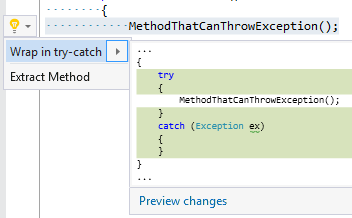
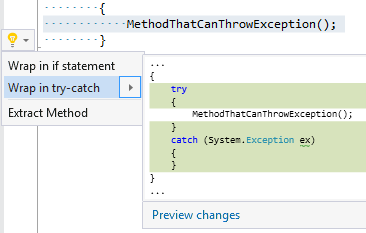
add refactoring "WrapStatementsInIfStatement"

Changed region(s): [[0.0, 0.0, 1.0, 1.0]]

diff --git a/source/Pihrtsoft.CodeAnalysis.CSharp.Refactorings/Refactoring/WrapStatementsInTryCatchRefactoring.cs b/source/Pihrtsoft.CodeAnalysis.CSharp.Refactorings/Refactoring/WrapStatementsInTryCatchRefactoring.cs
@@ -1,47 +1,17 @@
 // Copyright (c) Josef Pihrt. All rights reserved. Licensed under the Apache License, Version 2.0. See License.txt in the project root for license information.
 
-using System.Collections.Generic;
-using System.Linq;
-using System.Threading;
-using System.Threading.Tasks;
-using Microsoft.CodeAnalysis;
+using System.Collections.Immutable;
 using Microsoft.CodeAnalysis.CSharp.Syntax;
-using Microsoft.CodeAnalysis.Text;
 using static Microsoft.CodeAnalysis.CSharp.SyntaxFactory;
 using static Pihrtsoft.CodeAnalysis.CSharp.CSharpFactory;
 
 namespace Pihrtsoft.CodeAnalysis.CSharp.Refactoring
 {
-    internal static class WrapStatementsInTryCatchRefactoring
+    internal class WrapStatementsInTryCatchRefactoring : WrapStatementsRefactoring<TryStatementSyntax>
     {
-        public static bool CanRefactor(RefactoringContext context, BlockSyntax block)
+        public override TryStatementSyntax CreateStatement(ImmutableArray<StatementSyntax> statements)
         {
-            return GetSelectedStatements(block, context.Span).Any();
-        }
-
-        public static async Task<Document> RefactorAsync(
-            Document document,
-            BlockSyntax block,
-            TextSpan span,
-            CancellationToken cancellationToken = default(CancellationToken))
-        {
-            SyntaxNode root = await document.GetSyntaxRootAsync(cancellationToken);
-
-            StatementSyntax[] statements = GetSelectedStatements(block, span).ToArray();
-
-            int index = block.Statements.IndexOf(statements[0]);
-
-            SyntaxList<StatementSyntax> newStatements = block.Statements;
-
-            int cnt = statements.Length;
-
-            while (cnt > 0)
-            {
-                newStatements = newStatements.RemoveAt(index);
-                cnt--;
-            }
-
-            TryStatementSyntax tryStatement = TryStatement(
+            return TryStatement(
                 Block(statements),
                 CatchClause(
                     CatchDeclaration(
@@ -49,21 +19,6 @@ namespace Pihrtsoft.CodeAnalysis.CSharp.Refactoring
                         Identifier("ex")),
                     null,
                     Block()));
-
-            tryStatement = tryStatement.WithFormatterAnnotation();
-
-            newStatements = newStatements.Insert(index, tryStatement);
-
-            root = root.ReplaceNode(block, block.WithStatements(newStatements));
-
-            return document.WithSyntaxRoot(root);
-        }
-
-        private static IEnumerable<StatementSyntax> GetSelectedStatements(BlockSyntax block, TextSpan span)
-        {
-            return block.Statements
-                .SkipWhile(f => span.Start > f.Span.Start)
-                .TakeWhile(f => span.End >= f.Span.End);
         }
     }
 }

diff --git a/source/Pihrtsoft.CodeAnalysis.CSharp.Refactorings/Refactoring/WrapStatementsRefactoring.cs b/source/Pihrtsoft.CodeAnalysis.CSharp.Refactorings/Refactoring/WrapStatementsRefactoring.cs
@@ -1,0 +1,63 @@
+// Copyright (c) Josef Pihrt. All rights reserved. Licensed under the Apache License, Version 2.0. See License.txt in the project root for license information.
+
+using System.Collections.Generic;
+using System.Collections.Immutable;
+using System.Linq;
+using System.Threading;
+using System.Threading.Tasks;
+using Microsoft.CodeAnalysis;
+using Microsoft.CodeAnalysis.CSharp.Syntax;
+using Microsoft.CodeAnalysis.Text;
+
+namespace Pihrtsoft.CodeAnalysis.CSharp.Refactoring
+{
+    internal abstract class WrapStatementsRefactoring<TStatement> where TStatement : StatementSyntax
+    {
+        public static bool CanRefactor(RefactoringContext context, BlockSyntax block)
+        {
+            return GetSelectedStatements(block, context.Span).Any();
+        }
+
+        public static IEnumerable<StatementSyntax> GetSelectedStatements(BlockSyntax block, TextSpan span)
+        {
+            return block.Statements
+                .SkipWhile(f => span.Start > f.Span.Start)
+                .TakeWhile(f => span.End >= f.Span.End);
+        }
+
+        public abstract TStatement CreateStatement(ImmutableArray<StatementSyntax> statements);
+
+        public async Task<Document> RefactorAsync(
+            Document document,
+            BlockSyntax block,
+            TextSpan span,
+            CancellationToken cancellationToken = default(CancellationToken))
+        {
+            SyntaxNode root = await document.GetSyntaxRootAsync(cancellationToken);
+
+            ImmutableArray<StatementSyntax> statements = GetSelectedStatements(block, span).ToImmutableArray();
+
+            int index = block.Statements.IndexOf(statements[0]);
+
+            SyntaxList<StatementSyntax> newStatements = block.Statements;
+
+            int cnt = statements.Length;
+
+            while (cnt > 0)
+            {
+                newStatements = newStatements.RemoveAt(index);
+                cnt--;
+            }
+
+            TStatement tryStatement = CreateStatement(statements);
+
+            tryStatement = tryStatement.WithFormatterAnnotation();
+
+            newStatements = newStatements.Insert(index, tryStatement);
+
+            root = root.ReplaceNode(block, block.WithStatements(newStatements));
+
+            return document.WithSyntaxRoot(root);
+        }
+    }
+}

diff --git a/source/Pihrtsoft.CodeAnalysis.CSharp.Refactorings/Refactoring/BlockRefactoring.cs b/source/Pihrtsoft.CodeAnalysis.CSharp.Refactorings/Refactoring/BlockRefactoring.cs
@@ -10,6 +10,23 @@ namespace Pihrtsoft.CodeAnalysis.CSharp.Refactoring
         {
             ReplaceBlockWithEmbeddedStatementRefactoring.ComputeRefactoring(context, block);
 
+            if (context.Settings.IsRefactoringEnabled(RefactoringIdentifiers.WrapStatementsInIfStatement)
+                && WrapStatementsInIfStatementRefactoring.CanRefactor(context, block))
+            {
+                context.RegisterRefactoring(
+                    "Wrap in if statement",
+                    cancellationToken =>
+                    {
+                        var refactoring = new WrapStatementsInIfStatementRefactoring();
+
+                        return refactoring.RefactorAsync(
+                            context.Document,
+                            block,
+                            context.Span,
+                            cancellationToken);
+                    });
+            }
+
             if (context.Settings.IsRefactoringEnabled(RefactoringIdentifiers.WrapStatementsInTryCatch)
                 && WrapStatementsInTryCatchRefactoring.CanRefactor(context, block))
             {
@@ -17,7 +34,9 @@ namespace Pihrtsoft.CodeAnalysis.CSharp.Refactoring
                     "Wrap in try-catch",
                     cancellationToken =>
                     {
-                        return WrapStatementsInTryCatchRefactoring.RefactorAsync(
+                        var refactoring = new WrapStatementsInTryCatchRefactoring();
+
+                        return refactoring.RefactorAsync(
                             context.Document,
                             block,
                             context.Span,

diff --git a/source/Pihrtsoft.CodeAnalysis.VisualStudio.Common/RefactoringsOptionsPage.Generated.cs b/source/Pihrtsoft.CodeAnalysis.VisualStudio.Common/RefactoringsOptionsPage.Generated.cs
@@ -128,6 +128,7 @@ namespace Pihrtsoft.CodeAnalysis.VisualStudio
             UseExpressionBodiedMember = true;
             WrapDeclarationInUsingStatement = true;
             WrapExpressionInParentheses = true;
+            WrapStatementsInIfStatement = true;
             WrapStatementsInTryCatch = true;
         }
 
@@ -249,6 +250,7 @@ namespace Pihrtsoft.CodeAnalysis.VisualStudio
             SetIsEnabled(RefactoringIdentifiers.UseExpressionBodiedMember, UseExpressionBodiedMember);
             SetIsEnabled(RefactoringIdentifiers.WrapDeclarationInUsingStatement, WrapDeclarationInUsingStatement);
             SetIsEnabled(RefactoringIdentifiers.WrapExpressionInParentheses, WrapExpressionInParentheses);
+            SetIsEnabled(RefactoringIdentifiers.WrapStatementsInIfStatement, WrapStatementsInIfStatement);
             SetIsEnabled(RefactoringIdentifiers.WrapStatementsInTryCatch, WrapStatementsInTryCatch);
         }
 
@@ -1407,6 +1409,16 @@ namespace Pihrtsoft.CodeAnalysis.VisualStudio
         [Description("Syntax: selected expression")]
         [TypeConverter(typeof (EnabledDisabledConverter))]
         public bool WrapExpressionInParentheses
+        {
+            get;
+            set;
+        }
+
+        [Category(RefactoringCategory)]
+        [DisplayName("Wrap statements in if statement")]
+        [Description("Syntax: selected statements")]
+        [TypeConverter(typeof (EnabledDisabledConverter))]
+        public bool WrapStatementsInIfStatement
         {
             get;
             set;

diff --git a/source/Pihrtsoft.CodeAnalysis.CSharp.Refactorings/Refactoring/WrapStatementsInIfStatementRefactoring.cs b/source/Pihrtsoft.CodeAnalysis.CSharp.Refactorings/Refactoring/WrapStatementsInIfStatementRefactoring.cs
@@ -1,0 +1,16 @@
+// Copyright (c) Josef Pihrt. All rights reserved. Licensed under the Apache License, Version 2.0. See License.txt in the project root for license information.
+
+using System.Collections.Immutable;
+using Microsoft.CodeAnalysis.CSharp.Syntax;
+using static Microsoft.CodeAnalysis.CSharp.SyntaxFactory;
+
+namespace Pihrtsoft.CodeAnalysis.CSharp.Refactoring
+{
+    internal class WrapStatementsInIfStatementRefactoring : WrapStatementsRefactoring<IfStatementSyntax>
+    {
+        public override IfStatementSyntax CreateStatement(ImmutableArray<StatementSyntax> statements)
+        {
+            return IfStatement(ParseExpression(""), Block(statements));
+        }
+    }
+}

diff --git a/source/Pihrtsoft.CodeAnalysis.CSharp.Refactorings/RefactoringIdentifiers.cs b/source/Pihrtsoft.CodeAnalysis.CSharp.Refactorings/RefactoringIdentifiers.cs
@@ -122,6 +122,7 @@ namespace Pihrtsoft.CodeAnalysis.CSharp.Refactoring
         public const string UseExpressionBodiedMember = "UseExpressionBodiedMember";
         public const string WrapDeclarationInUsingStatement = "WrapDeclarationInUsingStatement";
         public const string WrapExpressionInParentheses = "WrapExpressionInParentheses";
+        public const string WrapStatementsInIfStatement = "WrapStatementsInIfStatement";
         public const string WrapStatementsInTryCatch = "WrapStatementsInTryCatch";
     }
 }
